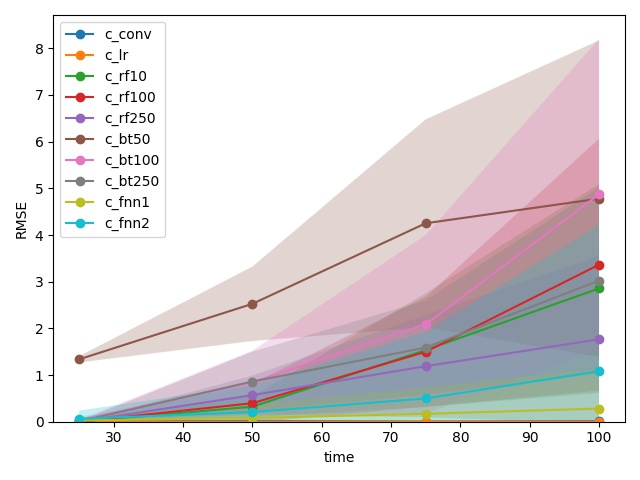
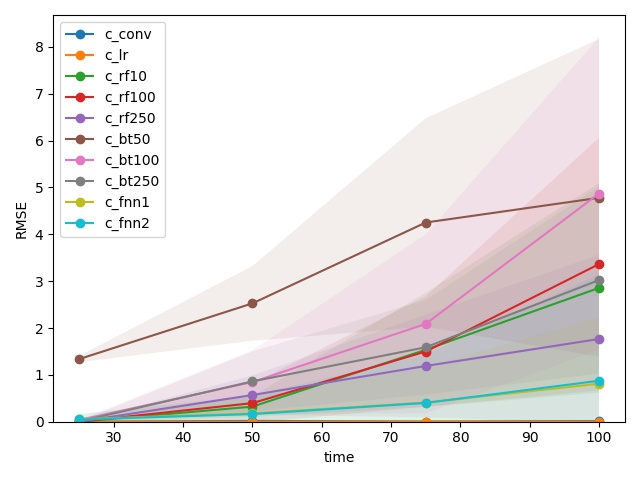
Adjust the transparency of the standard deviation lane around the lines

diff --git a/code/python/src/utils/plot.py b/code/python/src/utils/plot.py
@@ -518,7 +518,7 @@ def plot_rms_solution_diffs(
         labels: Sequence[str],
         file_name: str,
         legend_location: str = 'upper left',
-        alpha: float = .25,
+        alpha: float = .1,
         color_map: Colormap = cm.tab20):
     """
     Plots the root mean square solution differences.
